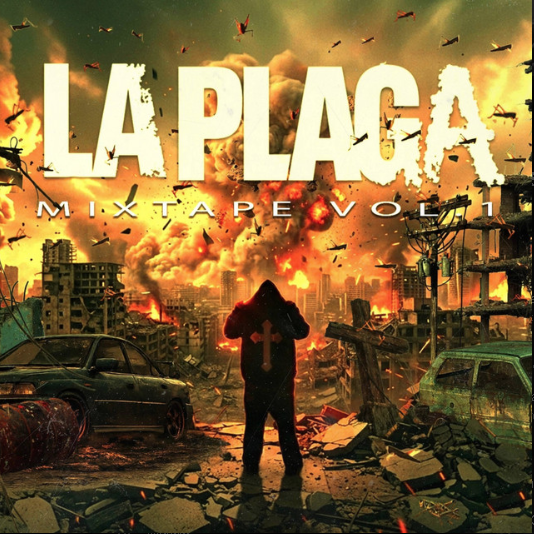
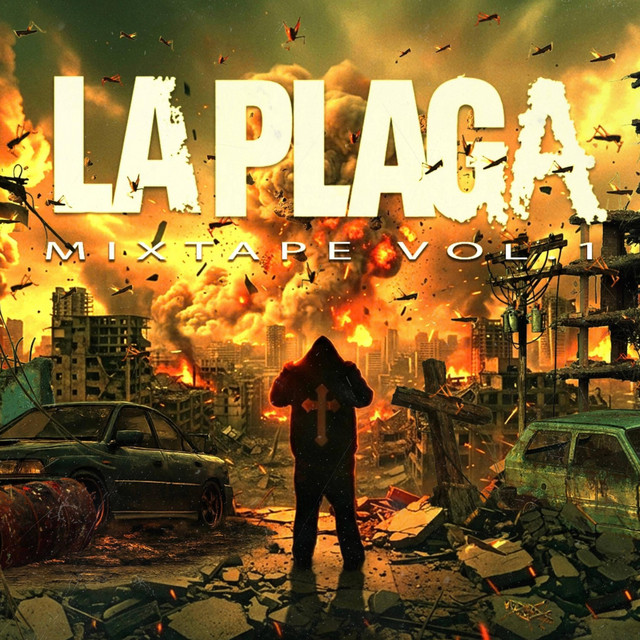
feat: tapas oficiales HD desde Spotify, 'Tu pase es válido' y copy minimalista con gratis
Claude-Session: https://claude.ai/code/session_01NmAzm6ZfQQDiy4Lkag51Ce

diff --git a/src/components/LandingScene.tsx b/src/components/LandingScene.tsx
@@ -478,7 +478,7 @@ export default function LandingScene({
 
       <div className="landing-center-content">
         <span className="mono-tag" style={{ letterSpacing: "0.22em", marginBottom: 12 }}>
-          SUSCRIPCIÓN POR INVITACIÓN
+          SUSCRIPCIÓN GRATIS · POR INVITACIÓN
         </span>
 
         <h1 className="landing-display-title">El tablero.</h1>
@@ -555,17 +555,14 @@ export default function LandingScene({
               </div>
             )}
 
-            <p className="subscribe-explainer">
-              Te suscribís a la escena: los proyectos, los tracks y la gente que los hace, en un solo
-              lugar. Se entra con el pase de alguien que ya está suscrito.
-            </p>
+            <p className="subscribe-explainer">Es gratis. Solo necesitás un pase.</p>
 
             {prefilledInvite?.code && inviteCode === prefilledInvite.code && (
               <div className="landing-invite-from">
                 <span className="landing-invite-check" aria-hidden>✓</span>
                 <span>
                   Te invitó <b>{prefilledInvite.creatorName || "alguien de la escena"}</b>
-                  {prefilledInvite.creatorHandle ? ` (${prefilledInvite.creatorHandle})` : ""}. Tu pase ya está puesto.
+                  {prefilledInvite.creatorHandle ? ` (${prefilledInvite.creatorHandle})` : ""}. Tu pase es válido.
                 </span>
               </div>
             )}

diff --git a/src/components/App.tsx b/src/components/App.tsx
@@ -6778,7 +6778,7 @@ function GoogleAuthModal({
                   Suscripción por invitación
                 </span>
                 <span>
-                  Te suscribís a la escena de El tablero.: proyectos, tracks y la gente que los hace. Para suscribirte necesitás el pase (link o código) de alguien que ya está suscrito.
+                  Es gratis. Solo necesitás un pase de alguien que ya está suscrito.
                 </span>
                 <div className="auth-invite-input-row">
                   <input

diff --git a/src/components/InviteFriendsModal.tsx b/src/components/InviteFriendsModal.tsx
@@ -295,7 +295,7 @@ export function WelcomeInviteModal({
           <h2>Te invitaron a suscribirte a El tablero.</h2>
           <p>
             Te invitó <b>{creatorName || "un artista"}</b> (
-            <span className="invite-creator-handle">{creatorHandle || "@quetablero"}</span>) a suscribirte a la escena: los proyectos, los tracks y la gente que los hace.
+            <span className="invite-creator-handle">{creatorHandle || "@quetablero"}</span>). Es gratis.
           </p>
         </div>
 

diff --git a/CONVERSATION_LOG.md b/CONVERSATION_LOG.md
@@ -2369,3 +2369,13 @@ de paso tambien cambiale el nombre de nuevo a El tablero. con todos los cambios 
 - `App.tsx`: ignora `?invite=` en `/project/...`; pasa `prefilledInvite` (pase validado + quién invita) e `inviteLinkError` a `LandingScene`.
 - `LandingScene.tsx`: con `/invite/:code` válido abre "Suscribirme" automáticamente con el pase en el campo y el aviso "✓ Te invitó poyo (@poyo). Tu pase ya está puesto."; limpia la URL a `/`. Link inválido/usado → aviso en la landing. Al tocar "Suscribirme con Google" el pase queda pendiente y se gasta al volver del login.
 - Probado en celu simulado (válido e inválido).
+
+---
+
+### Turno 122 — Tapas oficiales HD, "Tu pase es válido" y copy minimalista con "gratis"
+**Prompt del usuario:** EL DE LA X seguía con la tapa de AMORIO CLUB; cambiar "Tu pase ya está puesto" por "Tu pase es válido"; sacar el texto "te suscribís a la escena…" (minimalista); poner en algún lado que es gratis.
+
+**Cambios:**
+- Entorno `webpage`: se habilitaron `open.spotify.com`, `i.scdn.co`, `image-cdn-fa.spotifycdn.com` e `image-cdn-ak.spotifycdn.com`. Se bajaron las tapas oficiales 640×640 de Spotify (oEmbed → versión `b273`) de los 8 proyectos y reemplazaron `public/covers/*.png` (EL DE LA X ahora con su tapa real; se borró `amorio-club.png`).
+- Landing: subtítulo "SUSCRIPCIÓN GRATIS · POR INVITACIÓN"; modal "Es gratis. Solo necesitás un pase."; banner del link "✓ Te invitó poyo (@poyo). Tu pase es válido."
+- Modal de cuenta sin sesión y bienvenida por link: textos largos reemplazados por "Es gratis…".
